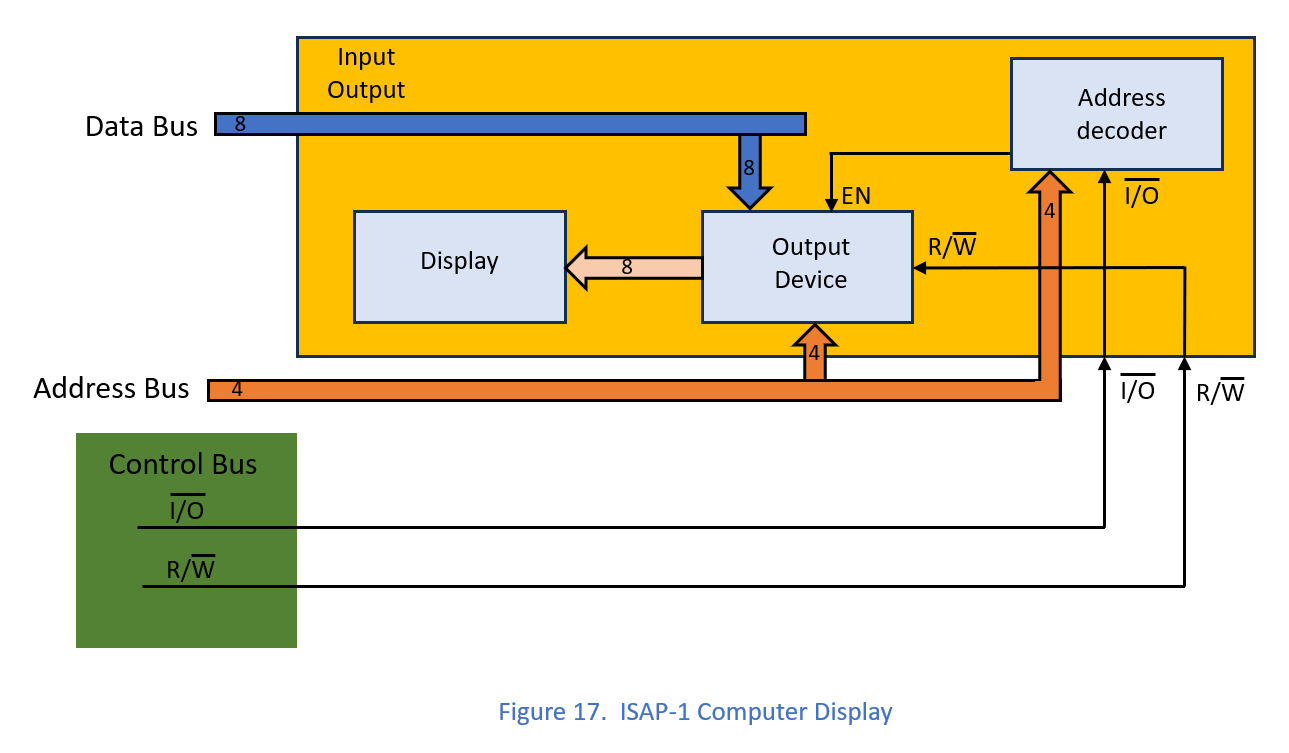
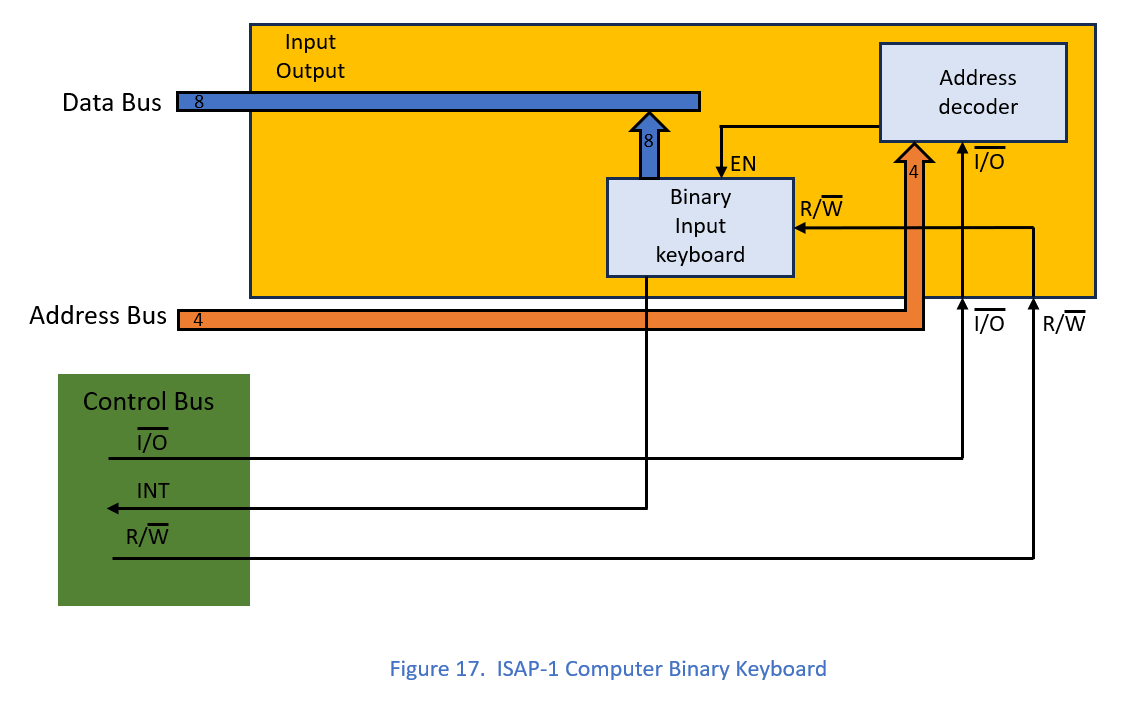
modified:   Pictures/Figure17.png modified:   README.md

Changed region(s): [[0.0311, 0.0312, 0.9947, 0.8738], [0.3419, 0.9362, 0.746, 0.9674]]

diff --git a/README.md b/README.md
@@ -253,7 +253,7 @@ For this purpose, I propose the implementation of a Program Memory Banking syste
 So, the addressable Program Memory capacity will increase from 16 bytes to:
 2^8 * 16 bytes = 256 * 16 bytes = 4096 bytes
 
-The described Program Memory Banking model is shown in figure 15.
+The described Program Memory Banking model is shown in figure 16.
 
 ![ Figure 16 ](/Pictures/Figure16.png)
 
@@ -262,9 +262,9 @@ For any digital system we need a way to interact with it. This is the function o
 
 The simplest input system that can be realized is a binary keyboard that allows the transmission of a binary code set by means of 8 switches on the data bus of the ISAP-1 computer.
 
-The connection of this Keyboard to the system buses is shown in figure 16.
+The connection of this Keyboard to the system buses is shown in figure 17.
 
-![ Figure 16 ](/Pictures/Figure16.png)
+![ Figure 17 ](/Pictures/Figure17.png)
 
 ## Binary Display
 The simplest output device that can be connected to this computer is a Binary Display. This device is also used in the original construction of the SAP-1 computer, where it is integrated directly into the structure of this computer.
